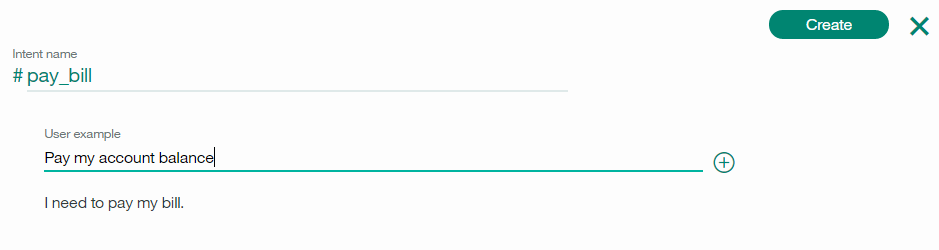
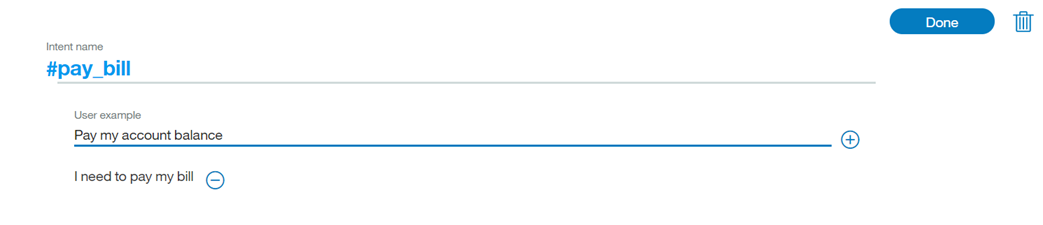
Updates to match UI
Tweaks to graphics, some content descriptions to match latest changes to
UI

diff --git a/logs_convo.md b/logs_convo.md
@@ -23,7 +23,7 @@ lastupdated: "2017-07-18"
 To open a list of conversations between users and your bot, select **User conversations** in the navigation bar. If **User conversations** is not visible, use the ![Menu](images/Menu_16.png) menu to open the page.
 {: shortdesc}
 
-When you open the **User conversations** page, the default view lists results for the last day, with the newest results first. The top intent (#intent) and any recognized entity (@entity) values used in the message, and the message text are available. For intents that are not recognized, or if an entity is not recognized or has not been provided, the value shown is *Irrelevant*.
+When you open the **User conversations** page, the default view lists results for the last day, with the newest results first. The top intent (#intent) and any recognized entity (@entity) values used in the message, and the message text are available. For intents that are not recognized, the value shown is *Irrelevant*. If an entity is not recognized, or has not been provided, the value shown is *No entities found*.
 ![Logs default page](images/logs_page1.png)
 
 ## Log limits
@@ -42,11 +42,11 @@ You can filter chat messages by *Search user statements*, *Intents*, *Entities*,
 
 *Search user statements* - Type a word in the search bar. This searches the user's inputs, but not your bot's replies.
 
-*Intents* - Select the drop-down menu and type an intent in the input field, or choose from the populated list. You can select more than one intent, which filters the results using any of the selected intents.
+*Intents* - Select the drop-down menu and type an intent in the input field, or choose from the populated list. You can select more than one intent, which filters the results using any of the selected intents, including *Irrelevant*.
 
 ![Intents drop-down menu](images/intents_filter.png)
 
-*Entities* - Select the drop-down menu and type an entity name in the input field, or choose from the populated list. You can select more than one entity, which filters the results by any of the selected entities. If you filter by intent *and* entity, your results will include the messages that have both values. You can also filter for results with no entities.
+*Entities* - Select the drop-down menu and type an entity name in the input field, or choose from the populated list. You can select more than one entity, which filters the results by any of the selected entities. If you filter by intent *and* entity, your results will include the messages that have both values. You can also filter for results with *No entities found*.
 
 ![Entities drop-down menu](images/entities_filter.png)
 

diff --git a/entities.md b/entities.md
@@ -2,7 +2,7 @@
 
 copyright:
   years: 2015, 2017
-lastupdated: "2017-07-07"
+lastupdated: "2017-07-27"
 
 ---
 
@@ -44,7 +44,7 @@ Use the {{site.data.keyword.conversationshort}} tool to create entities.
 1.  Click **Create new**.
 
     You can also click **Use System Entities** to select from a list of common entities, provided by {{site.data.keyword.IBM_notm}}, that can be applied to any use case. See [Enabling system entities](#enable_system_entities) for more detail.
-1. In the **Add the entity name** field, type a descriptive name for the entity.
+1.  In the **Add the entity name** field, type a descriptive name for the entity.
 
     The entity name can contain letters (in Unicode), numbers, underscores, and hyphens. For example:
     - `@location`
@@ -55,7 +55,7 @@ Use the {{site.data.keyword.conversationshort}} tool to create entities.
     {: tip}
 
 1.  For **Fuzzy Matching**, click the button to select either on or off; fuzzy matching is off by default. This feature is available for languages noted in the [Supported languages](lang-support.html) topic.
-{: #fuzzy-matching}
+ {: #fuzzy-matching}
 
     You can turn on fuzzy matching to improve the ability of the service to recognize user input terms with syntax that is similar to the entity, but without requiring an exact match. There are two components to fuzzy matching - stemming and misspelling:
     - *Stemming* - The feature recognizes the stem form of entity values that have several grammatical forms. For example, the stem of 'bananas' would be 'banana', while the stem of 'running' would be 'run'.
@@ -64,12 +64,11 @@ Use the {{site.data.keyword.conversationshort}} tool to create entities.
 1.  In the **Value** field, type the text of a possible value for the entity. An entity value can be any string up to 64 characters in length.
 
     > **Important:** Don't include sensitive or personal information in entity names or values. The names and values can be exposed in URLs in an app.
-    
-1. In the **Synonyms** field, type any synonyms for the entity value. A synonym can be any string up to 64 characters in length.
+1.  In the **Synonyms** field, type any synonyms for the entity value. A synonym can be any string up to 64 characters in length.
 
     ![Screen capture of defining an entity](images/define_entity.png)
 1.  Click **+** and repeat the process to add more entity values.
-1.  When you are finished adding values and synonyms, click **Create**.
+1.  When you are finished adding values and synonyms, click **Done**.
 
 ### Results
 

diff --git a/intents.md b/intents.md
@@ -41,7 +41,7 @@ Use the {{site.data.keyword.conversationshort}} tool to create intents.
 
 1.  In the {{site.data.keyword.conversationshort}} tool, open your workspace and then select the **Intents** tab in the navigation bar. If **Intents** is not visible, use the ![Menu](images/Menu_16.png) menu to open the page.
 1.  Select **Create new**.
-1.  In the Intent name field, type a descriptive name for the intent.
+1.  In the **Intent name** field, type a descriptive name for the intent.
     - The intent name can contain letters (in Unicode), numbers, underscores, hyphens, and periods.
     - The name cannot consist of `..` or any other string of only periods.
     - Intent names cannot contain spaces and must not exceed 128 characters. The following are examples of intent names:
@@ -67,7 +67,7 @@ Use the {{site.data.keyword.conversationshort}} tool to create intents.
 1.  Repeat the same process to add more examples. You can tab between each example. Provide at least 5 examples for each intent. The more examples you provide, the more accurate your application can be.
 
     ![Screen capture showing intent definition](images/define_intent.png)
-1.  When you have finished adding examples, select **Create** to finish creating the intent.
+1.  When you have finished adding examples, select **Done** to finish creating the intent.
 
 ### Results
 
@@ -143,7 +143,7 @@ You can select a number of intents for deletion.
 
 1.  On the Intents tab, select ![Delete icon](images/DeleteIcon.png)
 
-    ![Export and Delete options](images/ExportIntent1.png)
+    ![Export and Delete options](images/ExportIntent3.png)
 
 1.  Select the intents you want to delete, and click the **Delete** button. **Note**: The delete feature supports bulk delete of intents.
 

diff --git a/logs_oview.md b/logs_oview.md
@@ -47,12 +47,11 @@ While viewing the graph, you can click on an individual data point to see the nu
 
 You can use the **View logs** link to open the User conversations page with the date range filtered to match the data point.
 
-In addition to the graph, four statistics related to the displayed data are shown:
+In addition to the graph, statistics related to the displayed data are shown:
 
 1.  The total number of conversations that took place during this time period
-1.  The average number of conversations per data point, for example, per day if a week's data is shown
 1.  The maximum number of conversations for a single data point within the time period
-1.  The minimum number of conversations for a single data point within the time period
+1.  The number of conversations with weak understanding. These conversations are not classified by an intent, and do not contain any known entities. These can be useful in identifying potential dialog problems.
 
 You can also view the intents and entities that were recognized most often during the specified time period.  By default you see the top three of each, but you can change that to a larger number.
 
